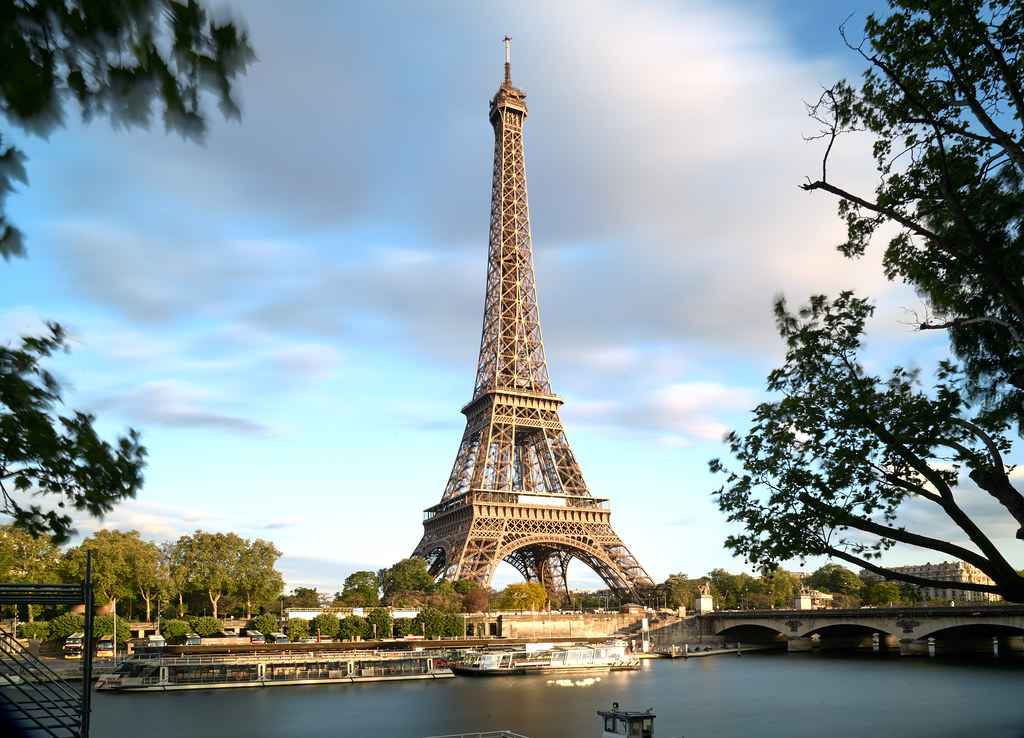
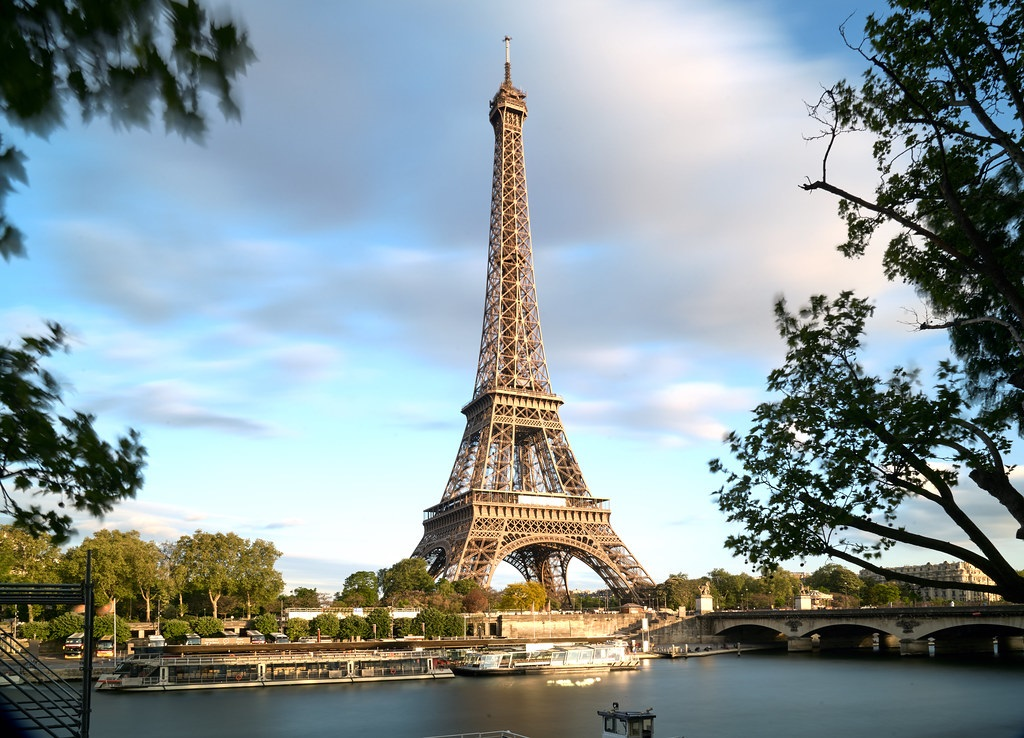
Reverted to manual slideshow, added enter key functionality for search bar and resized images

Changed region(s): [[0.5, 0.2805, 0.5312, 0.5298]]

diff --git a/js/javascript.js b/js/javascript.js
@@ -113,6 +113,8 @@ $(document).ready(function(){
 });
 
 
+
+
 function search() {
 		let query = $("#searchText").val();
 		query = query.toLowerCase().trim();
@@ -125,6 +127,19 @@ function search() {
 		}
 		displayPrograms(matches);
 }
+
+
+
+document.getElementById("searchText")
+    .addEventListener("keyup", function(event) {
+    event.preventDefault();
+    if (event.keyCode === 13) {
+        document.getElementById("mySearchBtn").click();
+    }
+});
+
+
+
 
 
 
@@ -143,6 +158,8 @@ function myFunction(number) {
     moreText.style.display = "inline";
   }
 }
+
+
 
 
 
@@ -174,20 +191,6 @@ function showSlides(n) {
 }
 
 
-var slideIndex = 0;
-showSlides();
-
-function showSlides() {
-  var i;
-  var slides = document.getElementsByClassName("mySlides");
-  for (i = 0; i < slides.length; i++) {
-    slides[i].style.display = "none";
-  }
-  slideIndex++;
-  if (slideIndex > slides.length) {slideIndex = 1}
-  slides[slideIndex-1].style.display = "block";
-  setTimeout(showSlides, 3000);
-}
 
 
 

diff --git a/index.html b/index.html
@@ -122,7 +122,7 @@
 			<section class="search">
 				<p>
 					<input placeholder="Search for an exchange program" type="text" id="searchText">
-					<button type="submit" onclick="search()">Search</button>
+					<button id="mySearchBtn" type="submit" onclick="search()">Search</button>					
 				</p>
 			</section>
 					
